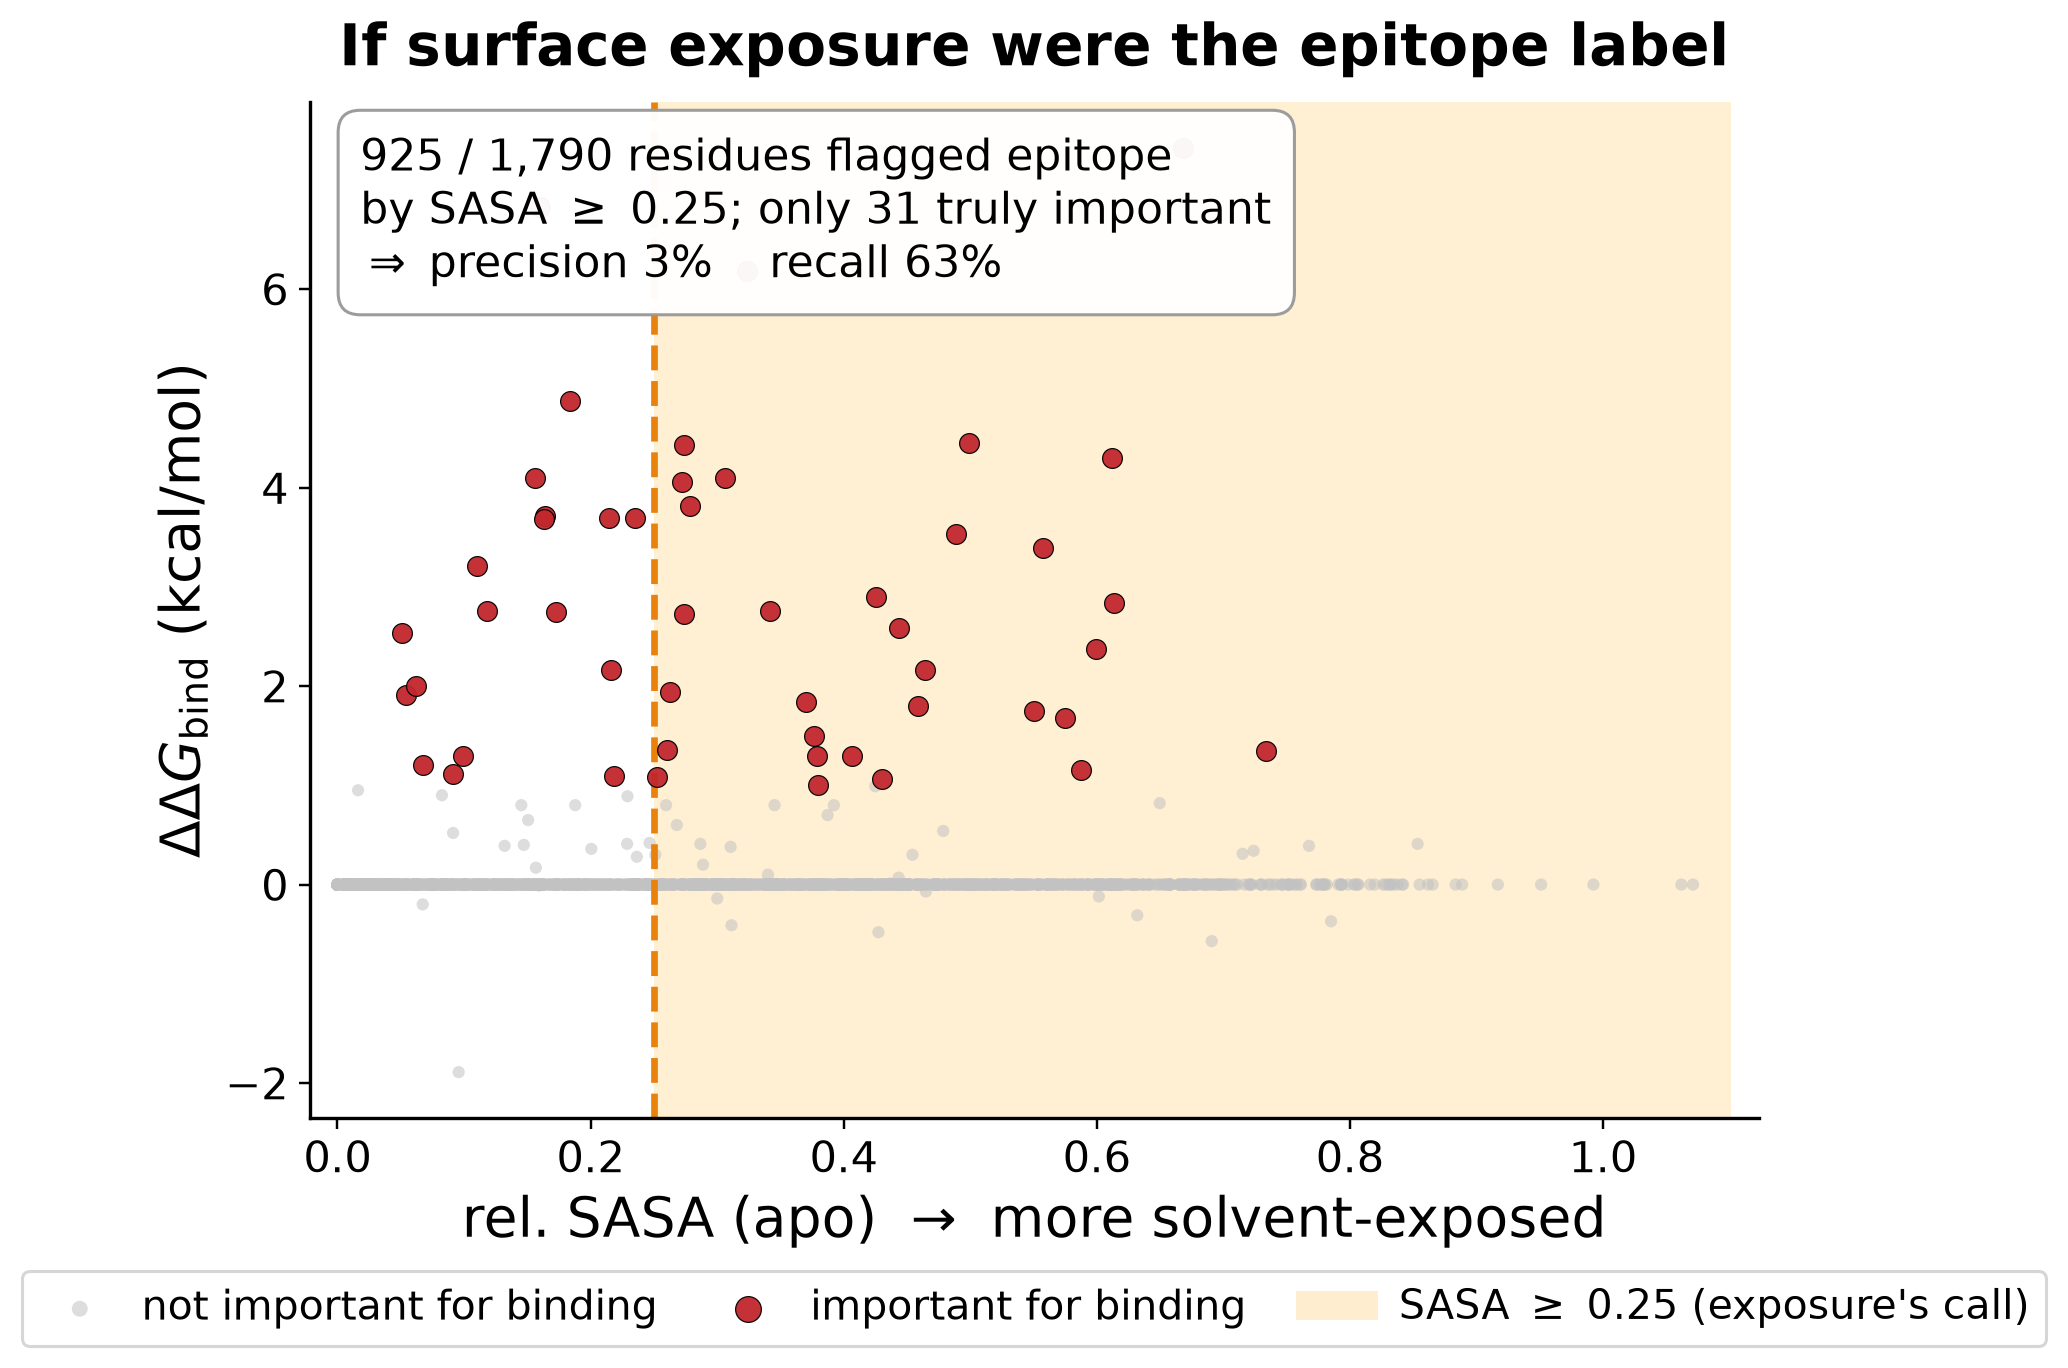
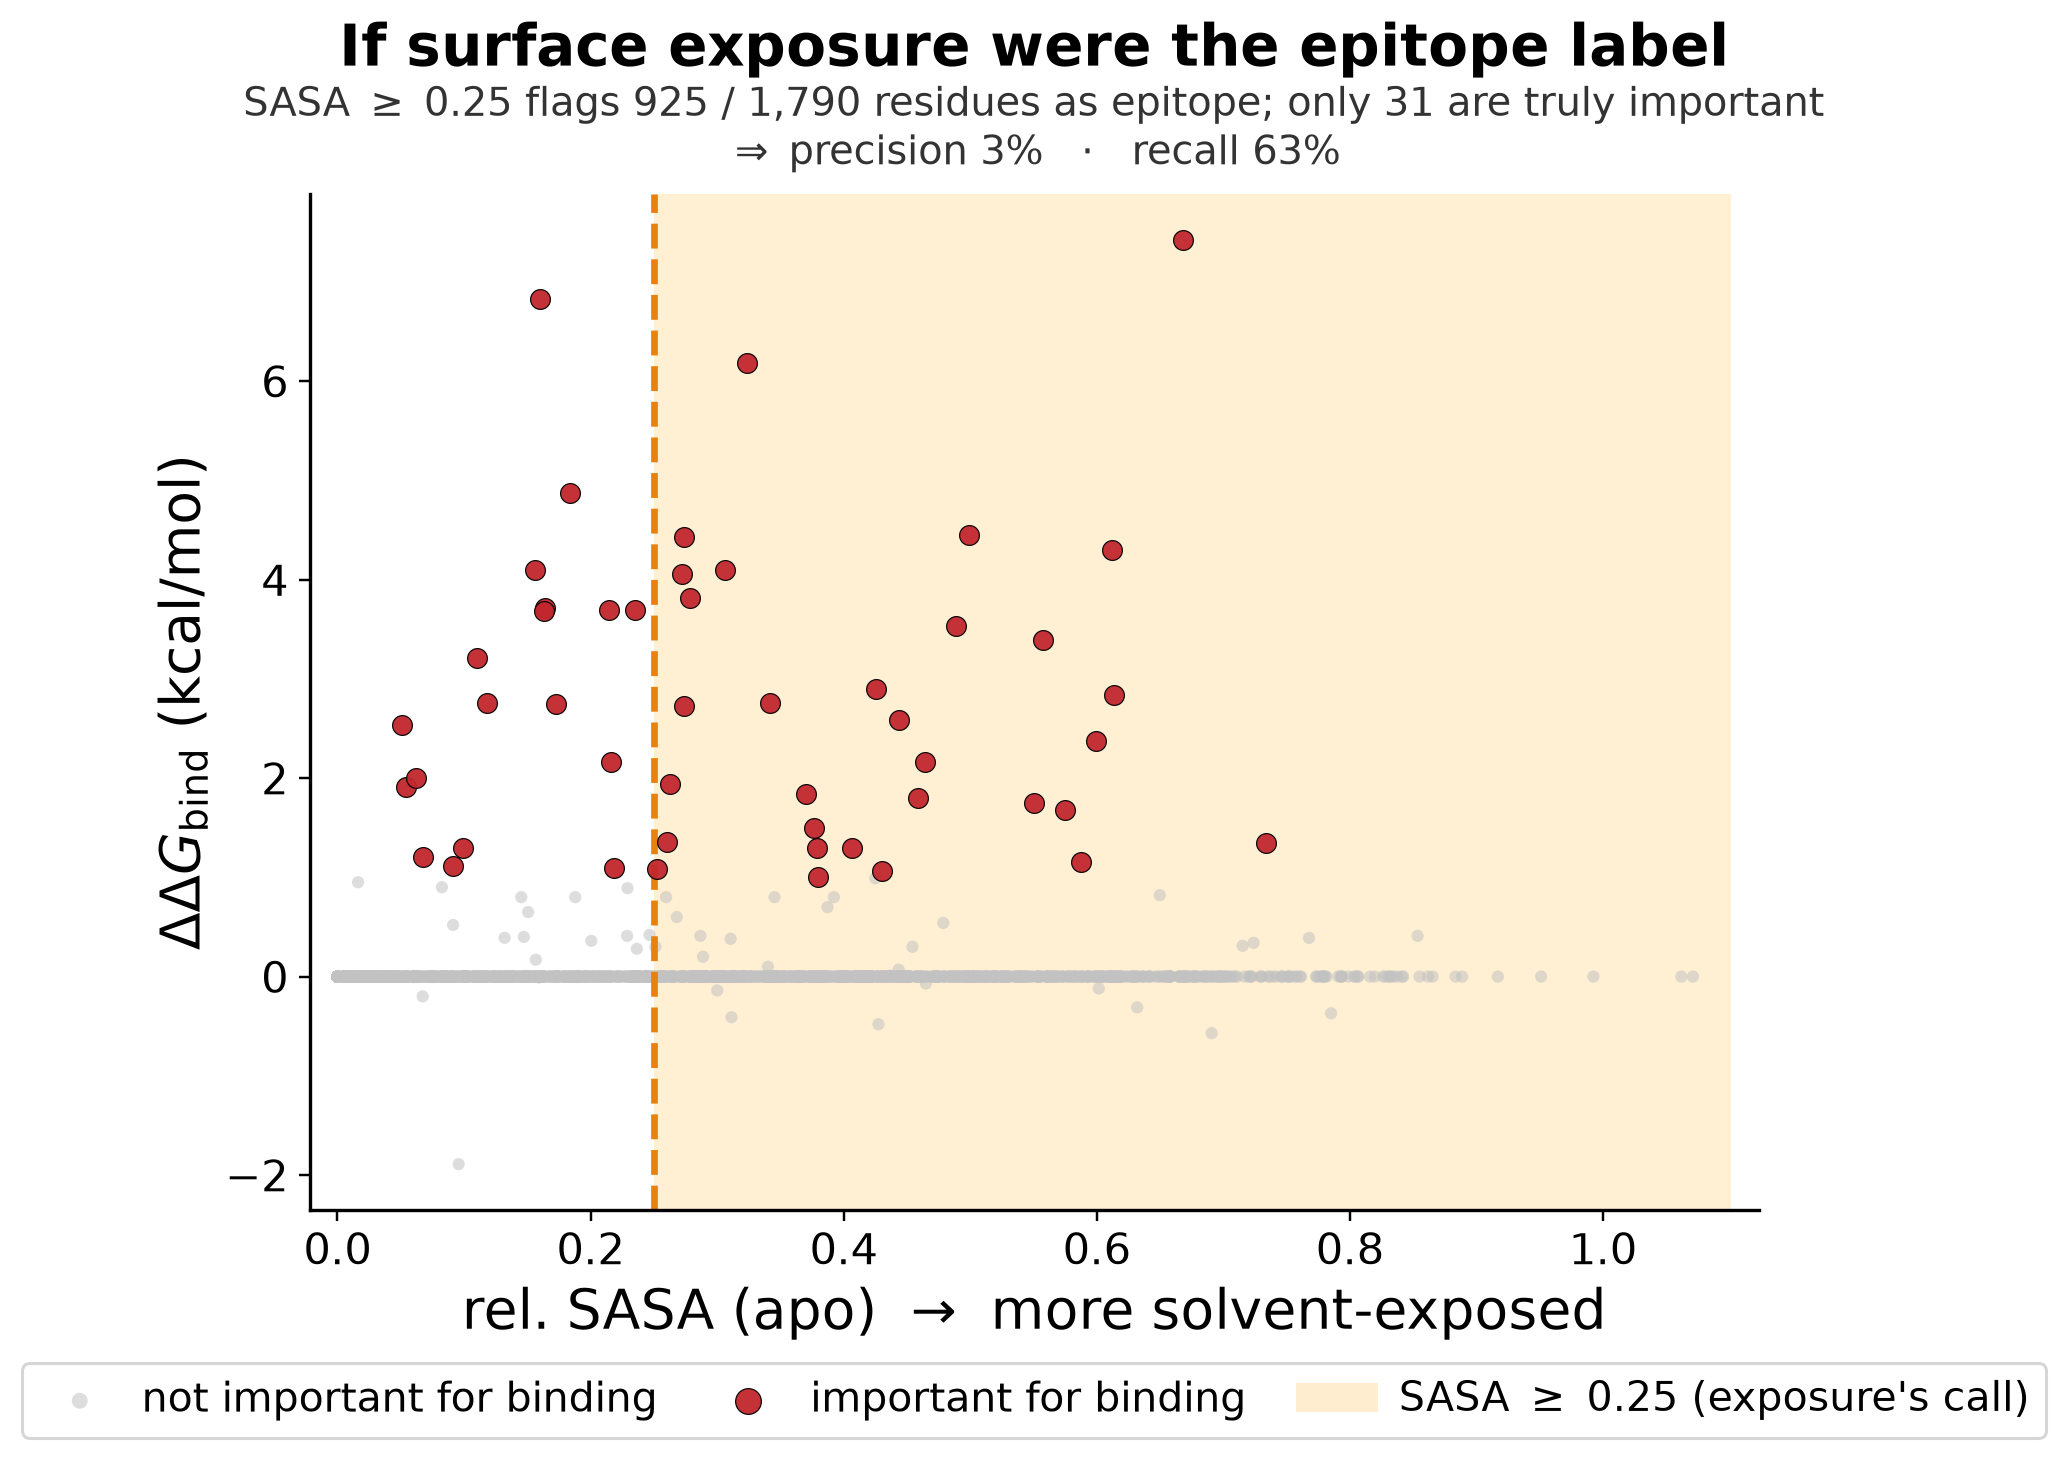
Move pooled-plot stats box out of the axes into a subtitle
The 925/1790 precision/recall summary now sits under the title (outside the plot area),
leaving the data region clean. Legend stays at the bottom.

diff --git a/analysis/plot_feature_vs_label.py b/analysis/plot_feature_vs_label.py
@@ -184,13 +184,11 @@ def main():
     rho_all = spearmanr(np.array(pooled_xs), np.array(pooled_ys)).correlation
     ax.set_xlabel(f"{args.label}  →  more solvent-exposed", fontsize=18)
     ax.set_ylabel(r"$\Delta\Delta G_\mathrm{bind}$ (kcal/mol)", fontsize=18)
-    ax.set_title("If surface exposure were the epitope label", fontsize=19, fontweight="bold", pad=12)
-    # annotation box with the confusion summary (top-left, clear of data)
-    txt = (f"{P_pred:,} / {P_res:,} residues flagged epitope\n"
-           f"by SASA $\\geq$ {thr}; only {P_tp} truly important\n"
-           f"$\\Rightarrow$ precision {prec_all:.0%}    recall {recall_all:.0%}")
-    ax.text(0.035, 0.97, txt, transform=ax.transAxes, ha="left", va="top", fontsize=14.5,
-            bbox=dict(boxstyle="round,pad=0.5", fc="white", ec="#999", alpha=0.97))
+    ax.set_title("If surface exposure were the epitope label", fontsize=19, fontweight="bold", pad=42)
+    # confusion summary as a subtitle ABOVE the axes (out of the plot area)
+    sub = (f"SASA $\\geq$ {thr} flags {P_pred:,} / {P_res:,} residues as epitope; only {P_tp} are truly "
+           f"important\n$\\Rightarrow$ precision {prec_all:.0%}   $\\cdot$   recall {recall_all:.0%}")
+    ax.text(0.5, 1.015, sub, transform=ax.transAxes, ha="center", va="bottom", fontsize=13, color="#333")
     # legend BELOW the axes (outside the plot -> hides no data)
     h2, l2 = ax.get_legend_handles_labels()
     h2.append(Patch(facecolor=SHADE, alpha=0.6)); l2.append(f"SASA $\\geq$ {thr} (exposure's call)")